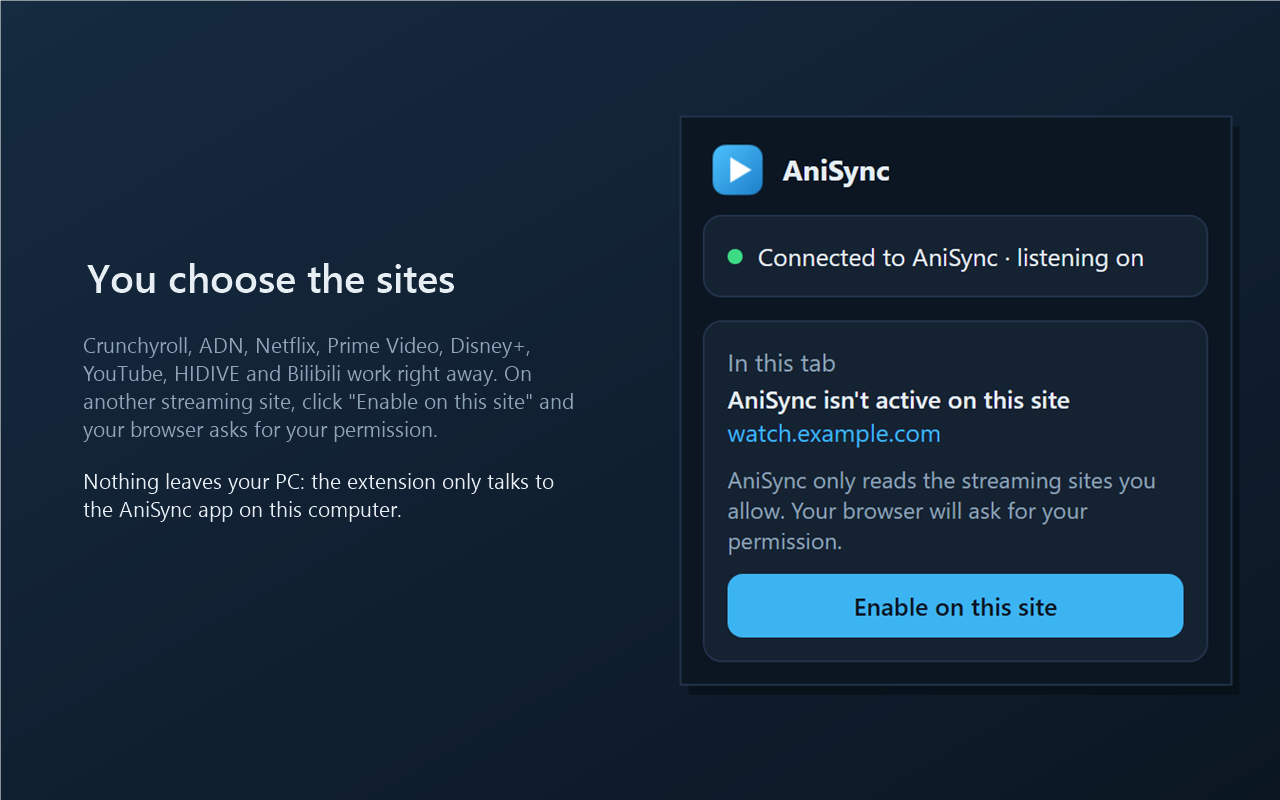
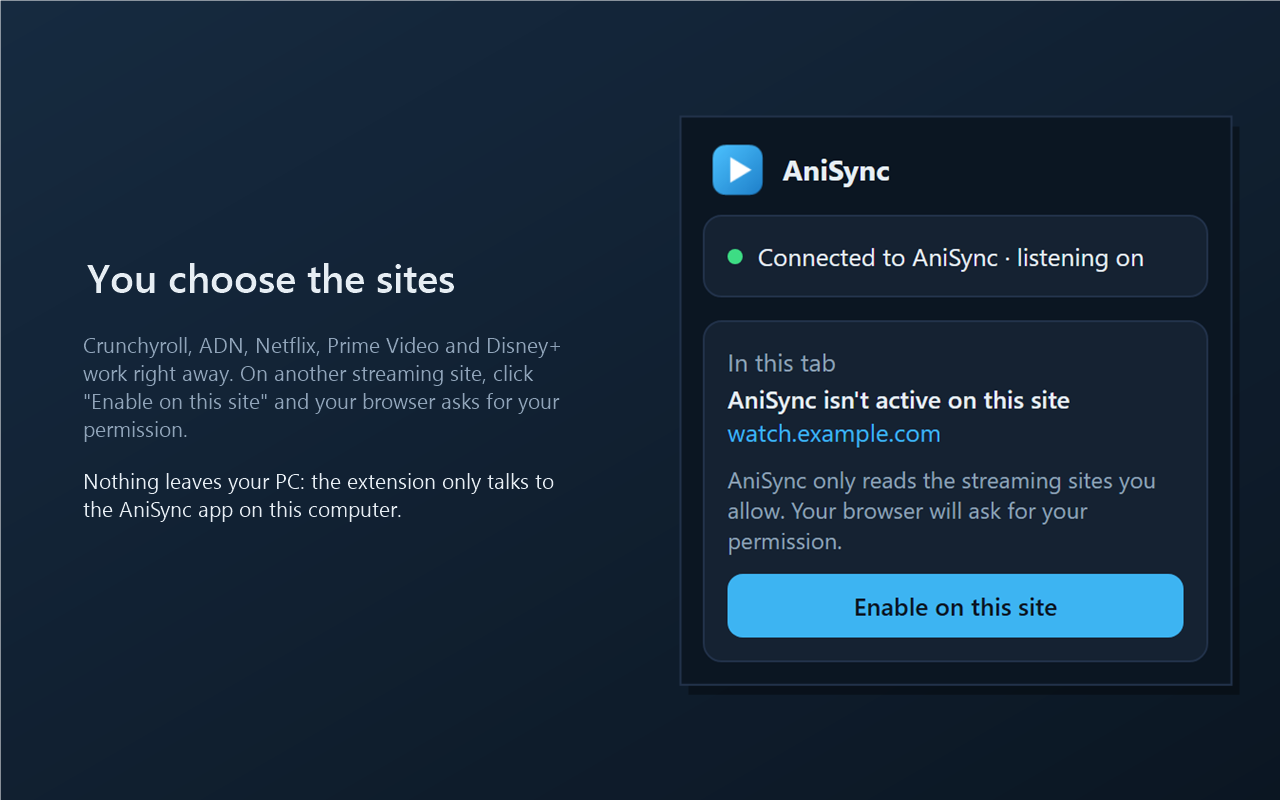
Extension : YouTube, HIDIVE et Bilibili retirés de la liste de base
Ils restent activables à la main avec « Activer sur ce site ».
Textes (confidentialité, guide des boutiques, README) et captures à jour.

Changed region(s): [[0.0625, 0.4062, 0.4375, 0.5625]]

diff --git a/tests/extension/sites.test.js b/tests/extension/sites.test.js
@@ -29,6 +29,10 @@ test('les sites de streaming connus sont couverts, pas les autres', () => {
   assert.ok(!sites.isCovered('https://www.notcrunchyroll.com/watch', BUILT_IN));
   assert.ok(!sites.isCovered('https://crunchyroll.com.evil.example/watch', BUILT_IN));
   assert.ok(!sites.isCovered('https://www.anime-site.fr/episode/12', BUILT_IN));
+  // Retirés de la liste de base : à activer à la main si besoin.
+  for (const url of ['https://www.youtube.com/watch?v=abc', 'https://www.hidive.com/video/1', 'https://www.bilibili.tv/en/video/1']) {
+    assert.ok(!sites.isCovered(url, BUILT_IN), url);
+  }
 });
 
 test('une règle accordée couvre bien le site', () => {

diff --git a/store/GUIDE.fr.md b/store/GUIDE.fr.md
@@ -74,7 +74,7 @@ What it does
 • The app counts an episode after 20 minutes of actual playback (pauses excluded) and updates your list: progress only moves forward, missing anime are added, the last episode marks it as completed.
 
 Supported sites
-Crunchyroll, ADN (Anime Digital Network), Netflix, Prime Video, Disney+, YouTube, HIDIVE and Bilibili work right away. On any other streaming site, open the extension and click "Enable on this site": your browser asks for your permission, for that site only.
+Crunchyroll, ADN (Anime Digital Network), Netflix, Prime Video and Disney+ work right away. On any other streaming site, open the extension and click "Enable on this site": your browser asks for your permission, for that site only.
 
 Requirements
 • The free AniSync app for Windows 10/11: https://github.com/Arzhaell/AniSync/releases
@@ -96,7 +96,7 @@ Ce qu'elle fait
 • L'appli compte un épisode après 20 minutes de lecture réelle (pauses exclues) et met ta liste à jour : la progression ne fait qu'avancer, un anime absent est ajouté, le dernier épisode le passe en « Terminé ».
 
 Sites pris en charge
-Crunchyroll, ADN (Anime Digital Network), Netflix, Prime Video, Disney+, YouTube, HIDIVE et Bilibili marchent tout de suite. Sur un autre site de streaming, ouvre l'extension et clique sur « Activer sur ce site » : le navigateur te demande ton accord, pour ce site seulement.
+Crunchyroll, ADN (Anime Digital Network), Netflix, Prime Video et Disney+ marchent tout de suite. Sur un autre site de streaming, ouvre l'extension et clique sur « Activer sur ce site » : le navigateur te demande ton accord, pour ce site seulement.
 
 Il te faut
 • L'appli gratuite AniSync pour Windows 10/11 : https://github.com/Arzhaell/AniSync/releases
@@ -126,7 +126,7 @@ Registers the content script on the streaming sites the user enables with "Enabl
 
 **Host permissions / Autorisations d'hôte**
 ```
-Listed streaming sites (Crunchyroll, ADN, Netflix, Prime Video, Disney+, YouTube, HIDIVE, Bilibili): the content script reads the series title, season, episode number and play/pause state of the video.
+Listed streaming sites (Crunchyroll, ADN, Netflix, Prime Video, Disney+): the content script reads the series title, season, episode number and play/pause state of the video.
 http://localhost:47814: the extension sends what it reads only to the AniSync desktop app running on the same computer. No other server is contacted.
 Optional access to other sites: requested at runtime, for one site at a time, only when the user clicks "Enable on this site".
 ```

diff --git a/README.fr.md b/README.fr.md
@@ -91,7 +91,7 @@ Crunchyroll n'affiche ni le nom de l'anime ni le numéro d'épisode dans ses ong
 
 Elle fonctionne aussi quand le lecteur est intégré dans une autre page (iframe).
 
-- **Sites** : Crunchyroll, ADN, Netflix, Prime Video, Disney+, YouTube, HIDIVE et Bilibili marchent tout de suite. Sur un autre site de streaming, clique sur l'icône de l'extension puis sur **Activer sur ce site** : le navigateur te demande ton accord, pour ce site (et son lecteur intégré) seulement. Tu peux retirer un site à tout moment dans les réglages de l'extension, dans le navigateur.
+- **Sites** : Crunchyroll, ADN, Netflix, Prime Video et Disney+ marchent tout de suite. Sur un autre site de streaming, clique sur l'icône de l'extension puis sur **Activer sur ce site** : le navigateur te demande ton accord, pour ce site (et son lecteur intégré) seulement. Tu peux retirer un site à tout moment dans les réglages de l'extension, dans le navigateur.
 - **Installation** : dans l'appli, Réglages > Extension navigateur > **Installer…**, puis suis les étapes (mode développeur > « Charger l'extension non empaquetée »). Elle marche dans Opera, Edge, Chrome et Brave. L'installation en un clic depuis le Chrome Web Store et Edge Add-ons arrive bientôt.
 - **Confidentialité** : voir [PRIVACY.md](PRIVACY.md#politique-de-confidentialité-danisync).
 - **Hors navigateur**, rien ne change : AniSync continue de détecter les lecteurs vidéo et les applis comme avant. Quand l'extension est active dans un navigateur, c'est elle qui fait foi pour ce navigateur.

diff --git a/PRIVACY.md b/PRIVACY.md
@@ -8,7 +8,7 @@ This policy covers the AniSync browser extension and the AniSync app for Windows
 
 ## Browser extension
 
-**What it reads.** On the streaming sites in its list (Crunchyroll, ADN, Netflix, Prime Video, Disney+, YouTube, HIDIVE, Bilibili) and on the sites you enable yourself with "Enable on this site", the extension reads:
+**What it reads.** On the streaming sites in its list (Crunchyroll, ADN, Netflix, Prime Video, Disney+) and on the sites you enable yourself with "Enable on this site", the extension reads:
 
 - the series title, season and episode number shown on the page, the page title and the site name;
 - the state of the video: playing or paused, position and duration.
@@ -51,7 +51,7 @@ Cette politique couvre l'extension navigateur AniSync et l'appli AniSync pour Wi
 
 ## Extension navigateur
 
-**Ce qu'elle lit.** Sur les sites de streaming de sa liste (Crunchyroll, ADN, Netflix, Prime Video, Disney+, YouTube, HIDIVE, Bilibili) et sur les sites que tu actives toi-même avec « Activer sur ce site », l'extension lit :
+**Ce qu'elle lit.** Sur les sites de streaming de sa liste (Crunchyroll, ADN, Netflix, Prime Video, Disney+) et sur les sites que tu actives toi-même avec « Activer sur ce site », l'extension lit :
 
 - le titre de la série, la saison et le numéro d'épisode affichés sur la page, le titre de la page et le nom du site ;
 - l'état de la vidéo : lecture ou pause, position et durée.

diff --git a/README.md b/README.md
@@ -91,7 +91,7 @@ Crunchyroll shows neither the anime name nor the episode number in its tabs (onl
 
 It also works when the player is embedded in another page (iframe).
 
-- **Sites**: Crunchyroll, ADN, Netflix, Prime Video, Disney+, YouTube, HIDIVE and Bilibili work right away. On any other streaming site, click the extension icon, then **Enable on this site**: the browser asks for your permission, for that site (and its embedded player) only. You can remove a site at any time in the extension's settings in the browser.
+- **Sites**: Crunchyroll, ADN, Netflix, Prime Video and Disney+ work right away. On any other streaming site, click the extension icon, then **Enable on this site**: the browser asks for your permission, for that site (and its embedded player) only. You can remove a site at any time in the extension's settings in the browser.
 - **Install**: in the app, Settings > Browser extension > **Install…**, then follow the steps (developer mode > "Load unpacked"). It works in Opera, Edge, Chrome and Brave. One-click install from the Chrome Web Store and Edge Add-ons is on its way.
 - **Privacy**: see [PRIVACY.md](PRIVACY.md).
 - **Outside the browser**, nothing changes: AniSync keeps detecting video players and apps as before. When the extension is active in a browser, it's the reference for that browser.
